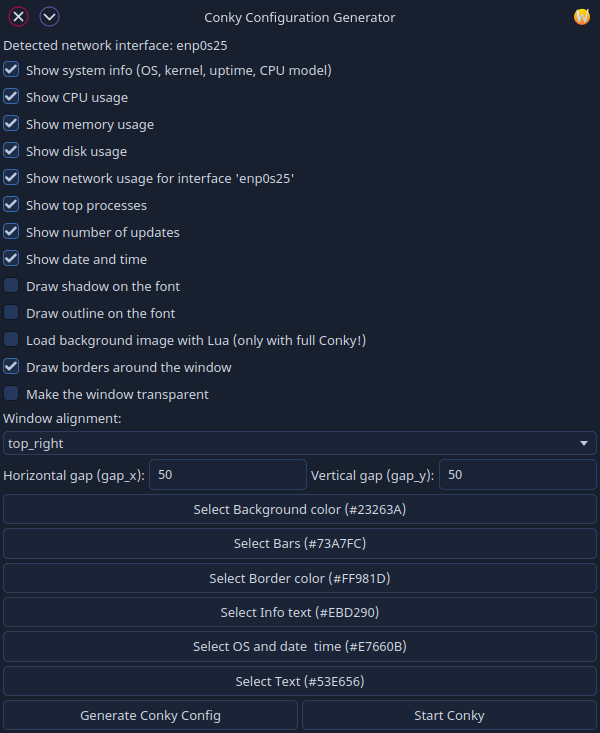
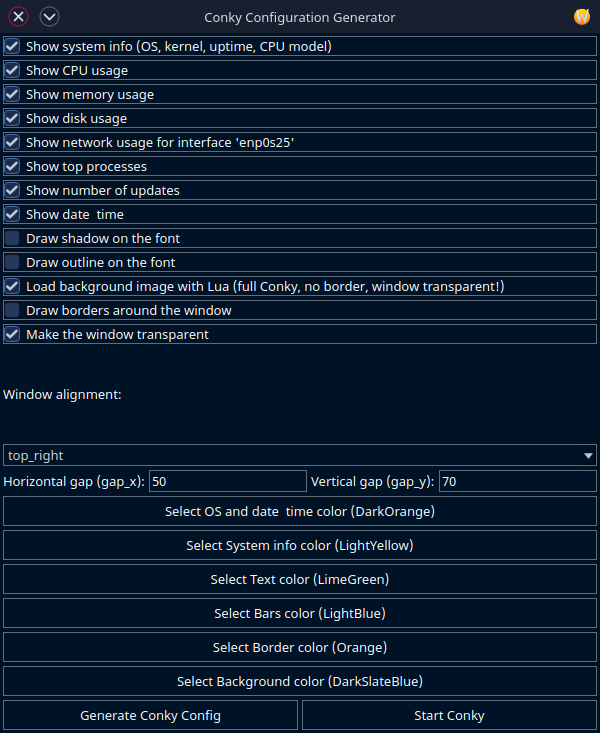
Added QT app

diff --git a/README.md b/README.md
@@ -1,11 +1,13 @@
 # Conky Generator
-Conky Generator is a Python-based tool that allows you to easily create a personalized `conky.conf` configuration file for Conky. Choose between two interfaces: a command-line interface (CLI) with an interactive wizard or a graphical user interface (GUI) for a more visual experience. Customize which system information to display (CPU, memory, disk, network, processes, updates, time), set colors, and configure layout options like alignment and gaps.
+
+Conky Generator is a tool that allows you to easily create a personalized `conky.conf` configuration file for Conky. Choose between three interfaces: a command-line interface (CLI) with an interactive wizard, a Python-based graphical user interface (GUI) using Tkinter, or a Qt-based GUI for a modern, native look. Customize which system information to display (CPU, memory, disk, network, processes, updates, time), set colors, and configure layout options like alignment and gaps.
 
 ## Features
-- Two interfaces: CLI (terminal-based) or GUI (Tkinter-based)
+
+- Three interfaces: CLI (terminal-based), Python GUI (Tkinter-based), or Qt GUI (Qt6-based)
 - Interactive configuration of displayed information (system info, CPU, memory, disk, network, processes, updates, time)
 - Automatic detection of your active network interface
-- Color customization via terminal input, Zenity (CLI), or Tkinter color picker (GUI)
+- Color customization via terminal input, Zenity (CLI), Tkinter color picker (Python GUI), or Qt color picker (Qt GUI)
 - Modern, clean Conky layout with customizable alignment and gaps
 - Optional: Background image via Lua (requires full compositing support in Conky)
 - GUI-specific: "(Re)start Conky" button to apply changes instantly
@@ -13,95 +15,151 @@ Conky Generator is a Python-based tool that allows you to easily create a person
 - Ready to use immediately after generation
 
 ## Requirements
-- Python 3
+
+- Python 3 (for CLI and Python GUI)
 - [Conky](https://github.com/brndnmtthws/conky)
-- Optional: [Zenity](https://help.gnome.org/users/zenity/stable/) (for graphical color selection, usually present on most Linux desktops)
-- GUI-specific: Tkinter (included with Python on most systems; install with `sudo apt install python3-tk` on Debian/Ubuntu or equivalent)
+- Optional: [Zenity](https://help.gnome.org/users/zenity/stable/) (for graphical color selection in CLI, usually present on most Linux desktops)
+- Python GUI-specific: Tkinter (included with Python on most systems; install with `sudo apt install python3-tk` on Debian/Ubuntu or equivalent)
+- Qt GUI-specific: Qt6 (install with `sudo apt install libqt5widgets5 libqt5gui5 libqt5core5a qt5-gtk2-platformtheme` on Debian/Ubuntu or equivalent)
 - Optional for Lua background: Lua package and full compositing support
 
 ## Installation of Dependencies
+
 ### Ubuntu/Debian
-````bash
-sudo apt install conky-all lua5.3 zenity python3 python3-tk
-````
-or
-````bash
-sudo apt install conky-all lua5.4 zenity python3 python3-tk
-````
+
+```bash
+sudo apt install conky-all lua5.3 zenity python3 python3-tk libqt5widgets5 libqt5gui5 libqt5core5a qt5-gtk2-platformtheme
+```
+```bash
+sudo apt install conky-all lua5.4 zenity python3 python3-tk libqt5widgets5 libqt5gui5 libqt5core5a qt5-gtk2-platformtheme
+```
+
+For Ubuntu GNOME, to ensure the Qt GUI follows the dark theme, run:
+
+```bash
+sudo apt install qt5-gtk2-platformtheme
+echo "export QT_QPA_PLATFORMTHEME=gtk2" >> ~/.profile
+```
+
+Log out and back in after adding the environment variable.
+
 ### Arch Linux
-````bash
-sudo pacman -S conky lua zenity python3 python3-tk
-````
+
+```bash
+sudo pacman -S conky lua zenity python python-tk qt6-base
+```
+
 For Conky with Cairo/Lua support, use AUR:
-````bash
+
+```bash
 yay -S conky-cairo
-````
+```
+
+Note: Arch Linux may require additional Qt6 theme packages for dark theme support.
+
 ### Fedora
-````bash
-sudo dnf install conky lua zenity python3 python3-tkinter
-````
+
+```bash
+sudo dnf install conky lua zenity python3 python3-tkinter qt6-qtbase-devel
+```
 
 ## Installation
+
 Clone this repository:
-````bash
+
+```bash
 git clone https://github.com/wim66/Conky-Generator.git
 cd Conky-Generator
-````
+```
 
 ## Usage
-You can choose between the CLI or GUI script to generate your `conky.conf`.
+
+You can choose between the CLI, Python GUI, or Qt GUI to generate your `conky.conf`.
 
 ### CLI Script (generate-conky.py)
-Start the CLI script by opening a terminal in the Conky-Generator directory.
-````bash
+
+Start the CLI script by opening a terminal in the Conky-Generator directory:
+
+```bash
 python3 generate-conky.py
-````
+```
+
 Follow the prompts to configure your Conky setup.
 
-### GUI Script (conky_generator_gui.py)
-Start the GUI script by opening a terminal in the Conky-Generator directory.
-````bash
+### Python GUI Script (conky_generator_gui.py)
+
+Start the Python GUI script by opening a terminal in the Conky-Generator directory:
+
+```bash
 python3 conky_generator_gui.py
-````
+```
+
 Use the interface to configure your Conky setup.
+
+### Qt GUI Script (ConkyGenerator)
+
+Start the Qt GUI application by clicking on it
+
+
+Use the interface to configure your Conky setup, select colors via the Qt color picker, and restart Conky instantly.
 
 ## Example
 
-![screenshot](assets/preview.png) ![preview](assets/preview.GIF)
+![CLI/GUI screenshot](assets/preview.png) ![CLI/GUI preview](assets/preview.GIF)
+
+Qt GUI screenshot:
+
+![Qt GUI screenshot](assets/preview2.png)
 
 ## FAQ
-### Q: What's the difference between the CLI and GUI scripts?
-A: The CLI script (`generate-conky.py`) is terminal-based, ideal for minimal setups or servers. The GUI script (`conky_generator_gui.py`) offers a visual interface with checkboxes, dropdowns, and a color picker, plus a "(Re)start Conky" button for convenience.
+
+### Q: What's the difference between the CLI, Python GUI, and Qt GUI?
+
+A: The CLI script (`generate-conky.py`) is terminal-based, ideal for minimal setups or servers. The Python GUI script (`conky_generator_gui.py`) offers a visual interface with Tkinter, including checkboxes, dropdowns, and a color picker. The Qt GUI (`ConkyGenerator`) provides a modern, native-looking interface with a Qt6-based color picker and a "(Re)start Conky" button for convenience.
 
 ### Q: How does the Lua background work?
+
 A: When enabled, Conky loads `assets/BG.png` as a background via `assets/image.lua`. This requires Conky with Lua and full compositing support.
 
 ### Q: I get Zenity/GTK warnings in the CLI script. Is this a problem?
+
 A: No, these warnings are harmless and do not affect the script's functionality.
 
 ### Q: Can I use the CLI script without Zenity?
+
 A: Yes, choose 'n' when asked about the graphical color picker, then enter hex color codes manually.
 
-### Q: Why does the GUI script require Tkinter?
+### Q: Why does the Python GUI script require Tkinter?
+
 A: Tkinter is Python's standard GUI library, used for the graphical interface. It's typically included with Python but may need manual installation on some systems.
 
+### Q: Why does the Qt GUI appear white on Ubuntu GNOME?
+
+A: The Qt GUI may not follow the dark GNOME theme without the `qt5-gtk2-platformtheme` package and the `QT_QPA_PLATFORMTHEME=gtk2` environment variable. Install the package and add the variable to `~/.profile` as shown above.
+
 ### Q: Can I place `conky.conf` in my home directory?
+
 A: Yes, copy `conky.conf` to `~/.conkyrc` or `~/.config/conky/conky.conf`, or start Conky with `conky -c /path/to/conky.conf`.
 
 ### Q: What does the "(Re)start Conky" button do?
+
 A: It stops all running Conky instances, waits 1 second, and starts Conky with the newly generated `conky.conf`.
 
 ## File Structure
+
 - `generate-conky.py`: CLI script for terminal-based configuration.
-- `conky_generator_gui.py`: GUI script for visual configuration.
+- `conky_generator_gui.py`: Python GUI script for visual configuration.
+- `main.cpp`: Source code for the Qt GUI application.
+- `ConkyGenerator.pro`: Qt project file for compiling the Qt GUI.
 - `assets/BG.png`: Default background image for Lua (if enabled).
 - `assets/image.lua`: Lua script for rendering the background image.
 - `assets/check_updates.sh`: Script for displaying system updates in Conky.
-- `conky.conf`: Generated configuration file (created after running either script).
+- `conky.conf`: Generated configuration file (created after running any script).
 
 ---
 
 ## License
+
 This project is licensed under the MIT License. See the [LICENSE](LICENSE) file for details.
 
 ---
